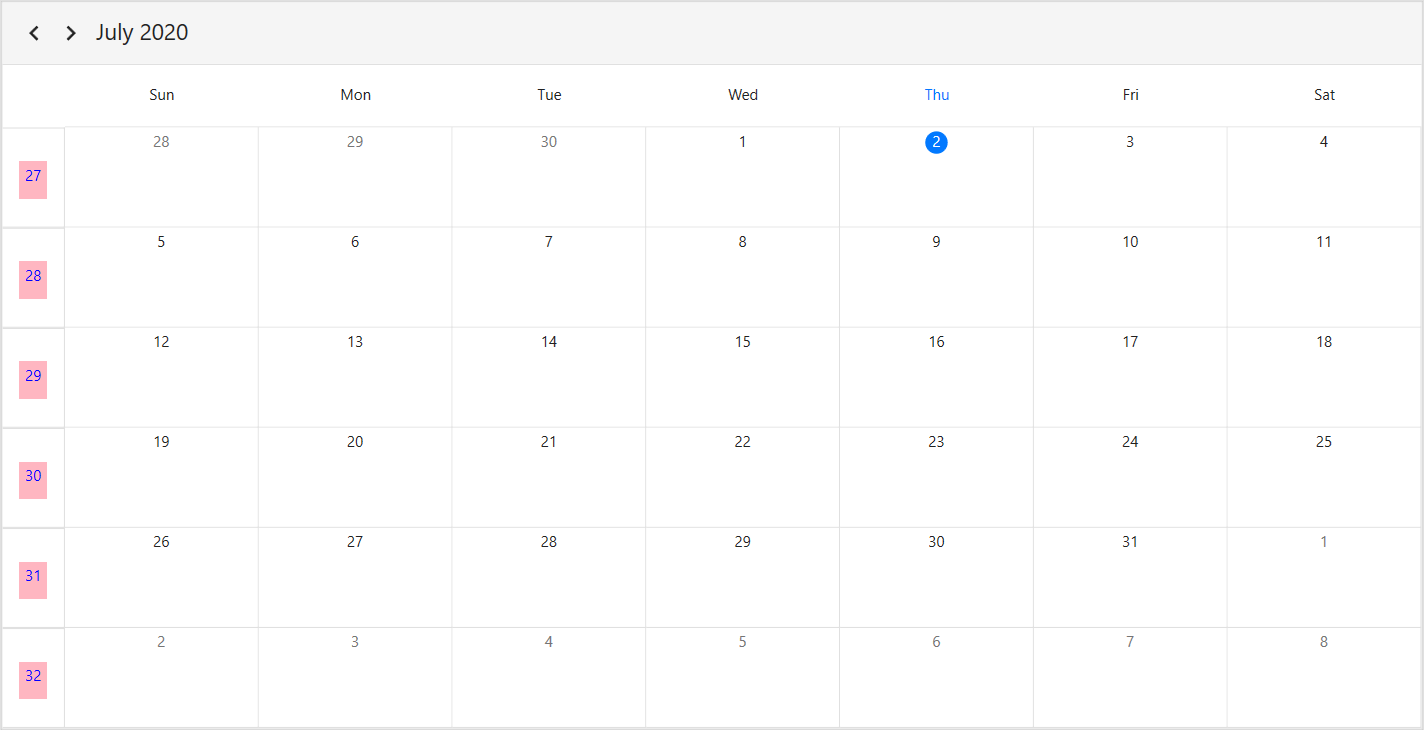
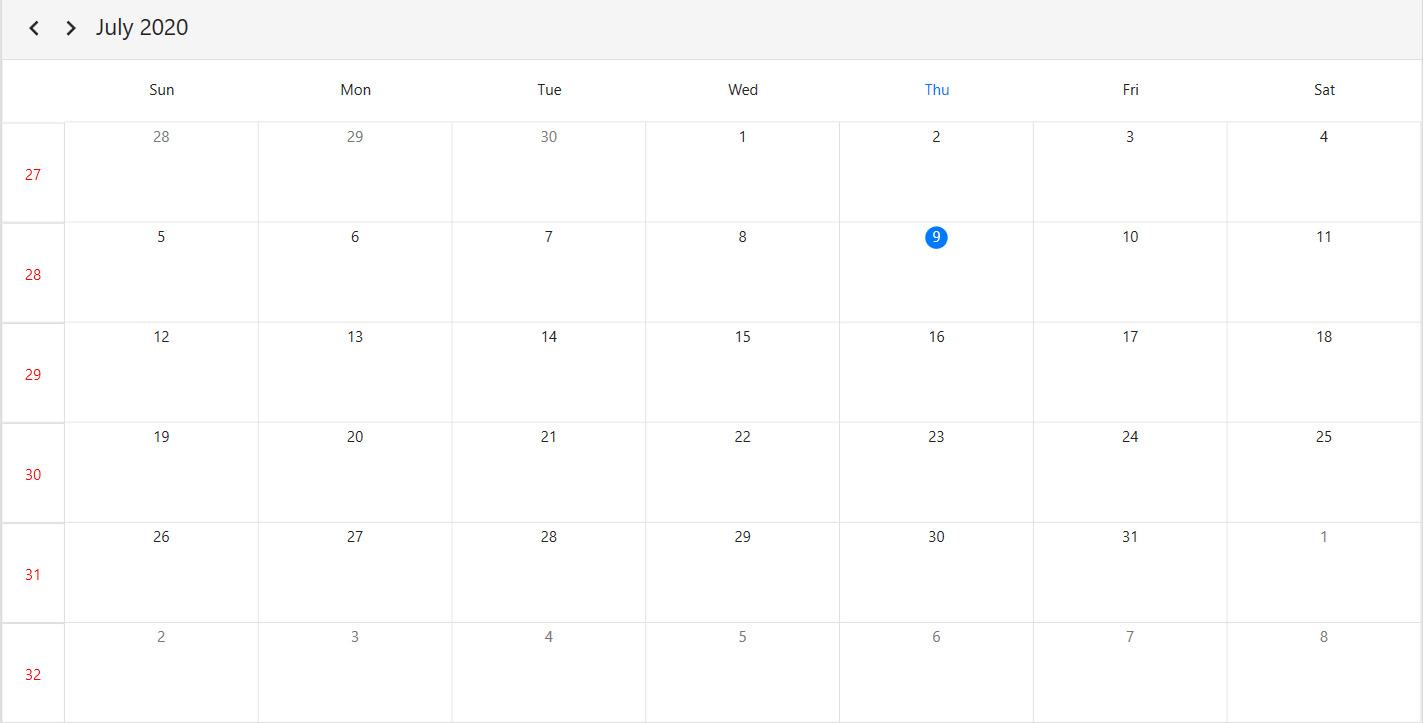
Modified week number template image

diff --git a/wpf/Scheduler/Month-View.md b/wpf/Scheduler/Month-View.md
@@ -326,9 +326,12 @@ You can customize the default appearance of the week number template in month vi
                 <syncfusion:MonthViewSettings ShowWeekNumber="True">
                     <syncfusion:MonthViewSettings.WeekNumberTemplate>
                         <DataTemplate>
-                            <Border Height="30" VerticalAlignment="Center">
-                                <Label Background = "LightPink" Foreground="Blue" Content="{Binding}"/>
-                            </Border>
+                             <Grid >
+                                <Label  Foreground="Red"
+                                        Content="{Binding}"
+                                        VerticalAlignment="Center"
+                                        HorizontalAlignment="Center"/>
+                            </Grid>
                         </DataTemplate>
                     </syncfusion:MonthViewSettings.WeekNumberTemplate>
                 </syncfusion:MonthViewSettings>
